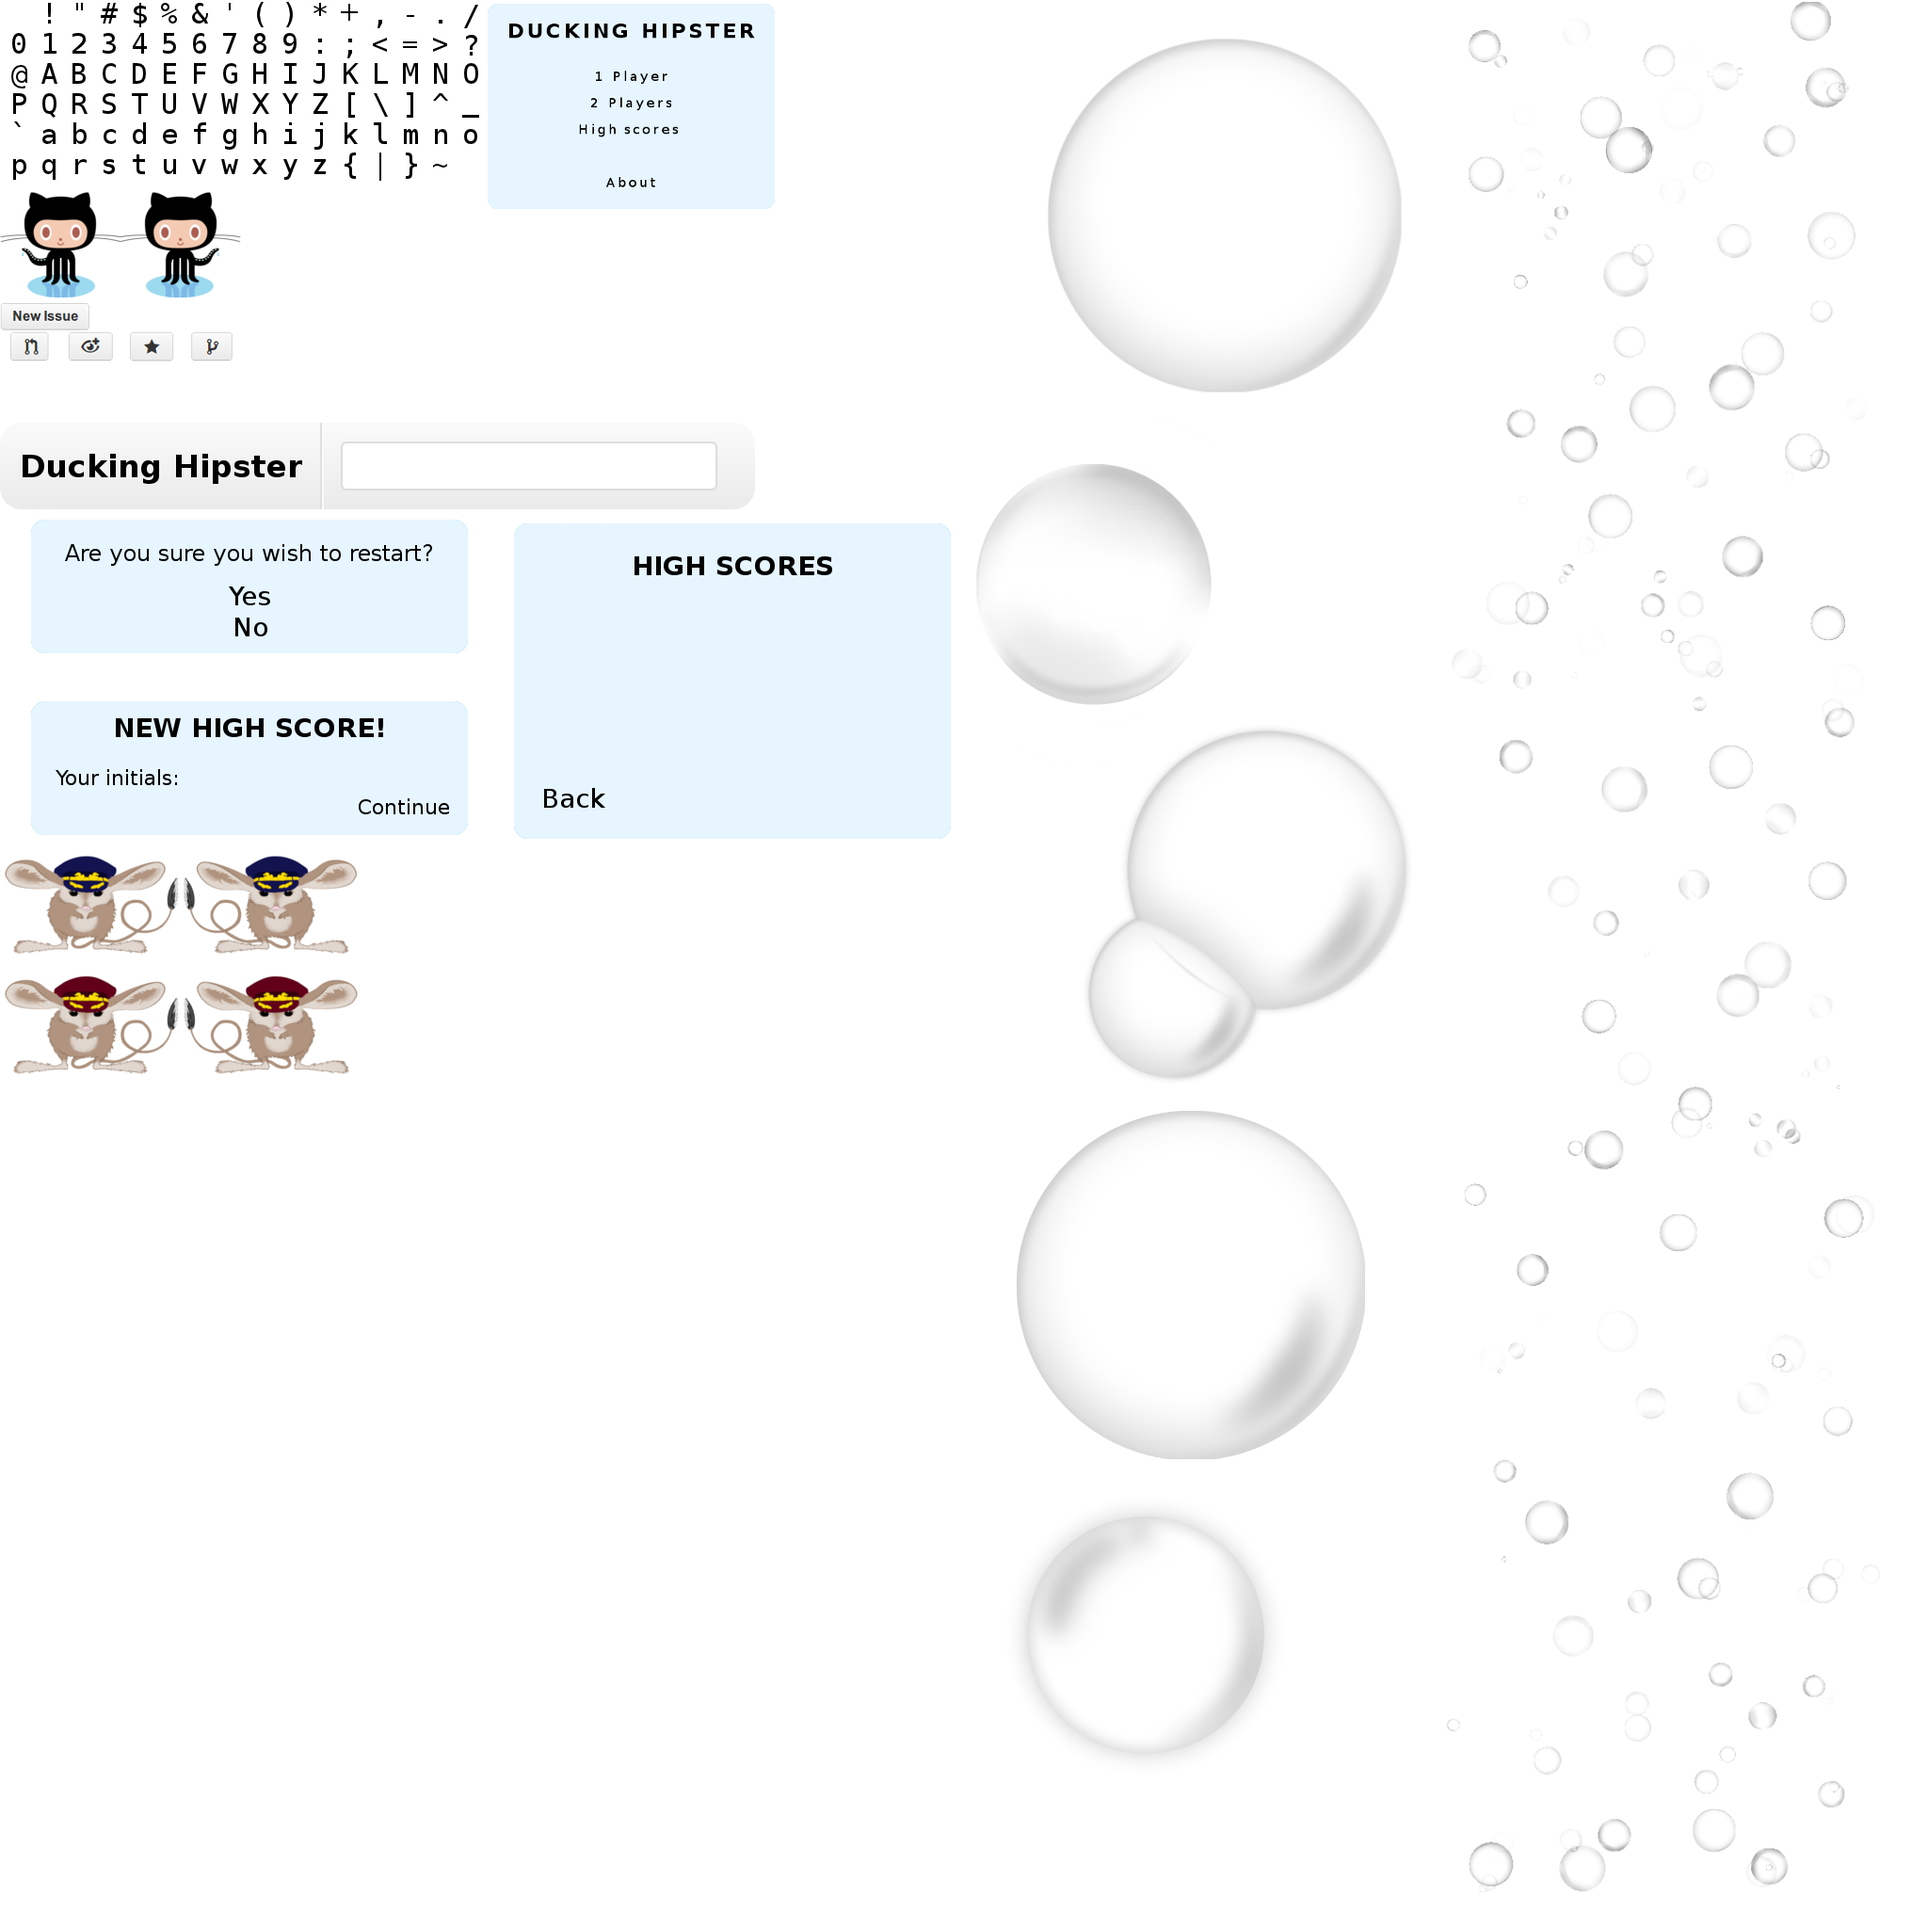
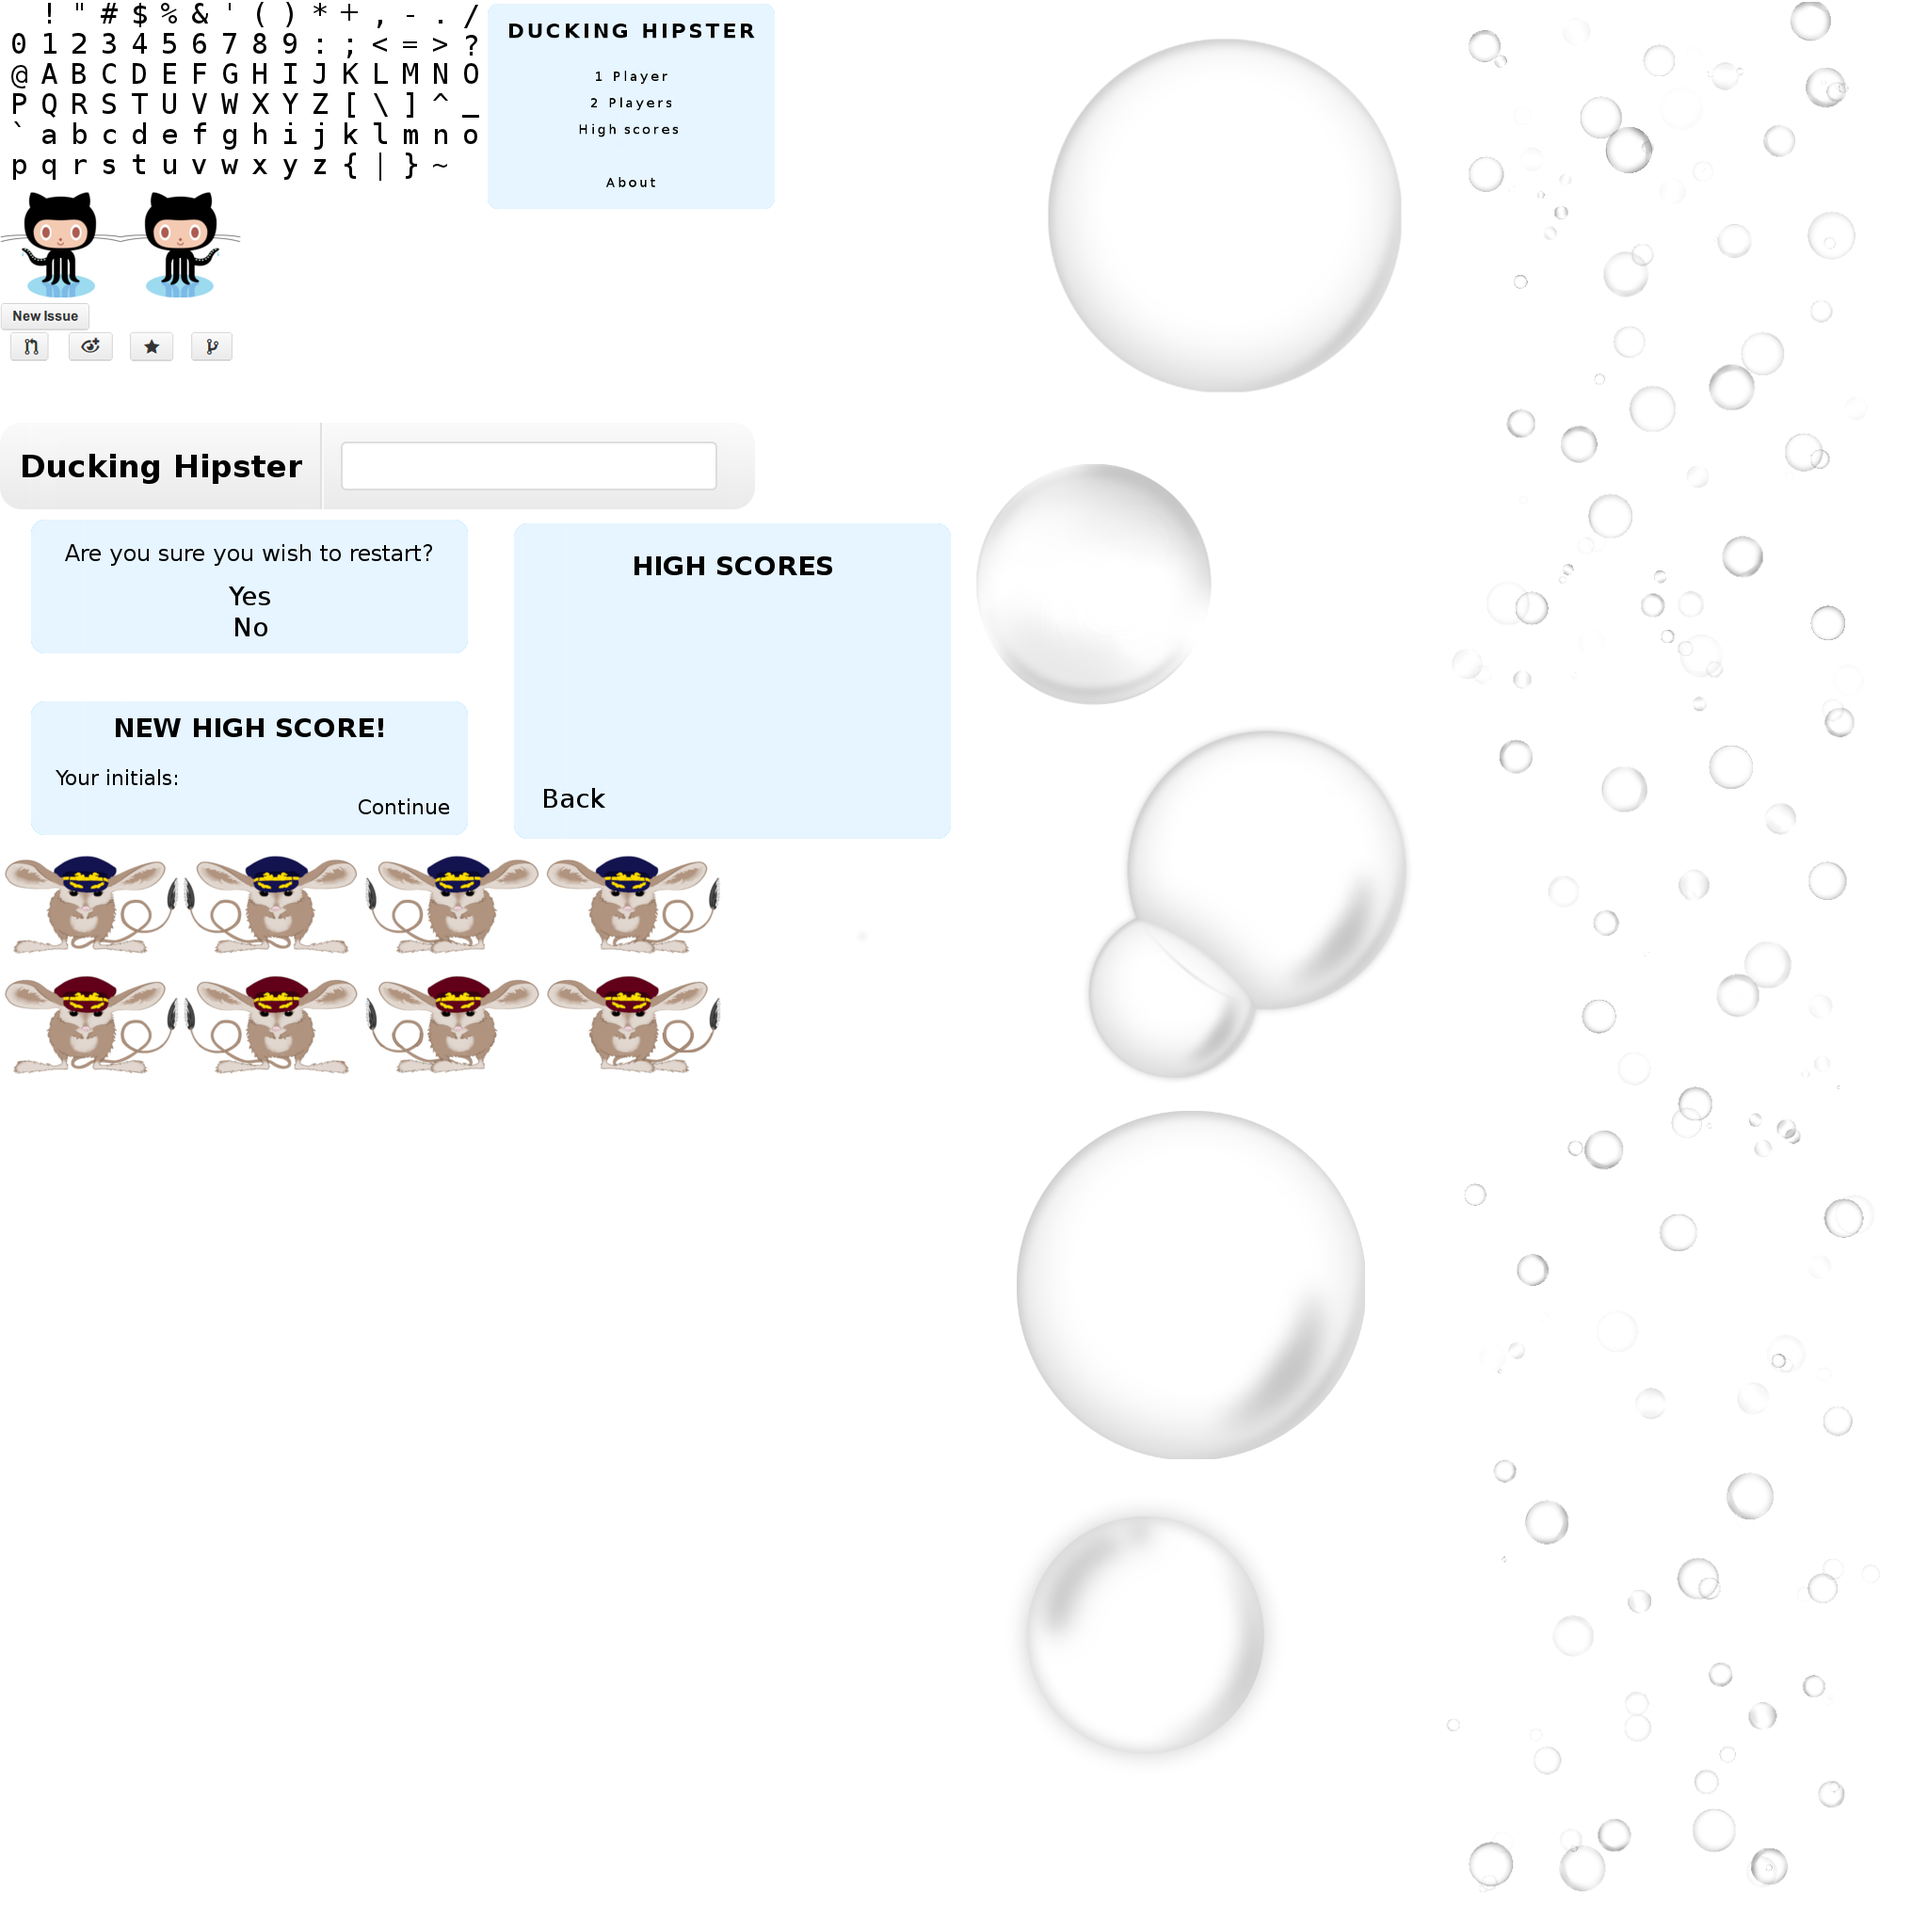
Move animation

Changed region(s): [[0.1875, 0.4375, 0.375, 0.5625]]

diff --git a/js/drawables.js b/js/drawables.js
@@ -106,16 +106,16 @@ Highscores = function(){
     bg.texture.enabled = true;
     bg.texture.fromChar("0");
     bg.color = [0,0,0,1];
-    bg.size  = [0.0,0.9/1.3,0];
+    bg.size  = [0.0,0.9/(15/11),0];
     bg.position = [0,-0.1,-0.5];
     bg.texture.sprite = [17,17];
-    bg.texture.size = [15,12];
+    bg.texture.size = [15,11];
     
     var selector = new Square();
     selector.texture.enabled = false;
     selector.color = [0.9,0.9,0.9,0.5];
     selector.size = [0.2,0.07, 0];
-    selector.position = [0.65, -0.5, -0.51];
+    selector.position = [0.65, -0.58, -0.51];
     
     function pad(number, length) {
         var str = '' + number;
@@ -534,6 +534,19 @@ Player = function(p2){
             forkObject.position = player.position.slice();
 			forkObject.position[2] = player.position[2] - 0.00001;
             forkObject.position[0] += 1.45*player.size[0];
+            
+            if(this.direction[0] != 0){
+                player.texture.sprite = [12,offset];
+                forkObject.texture.sprite = [12,offset];
+            }
+            else if(this.direction[1] != 0){
+                player.texture.sprite = [18,offset];
+                forkObject.texture.sprite = [18,offset];            
+            }
+            else{
+                player.texture.sprite = [6,offset];
+                forkObject.texture.sprite = [0,offset];
+            }
             
             
             if(this.fork){
